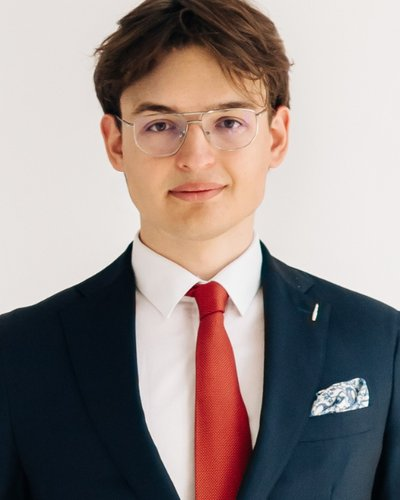
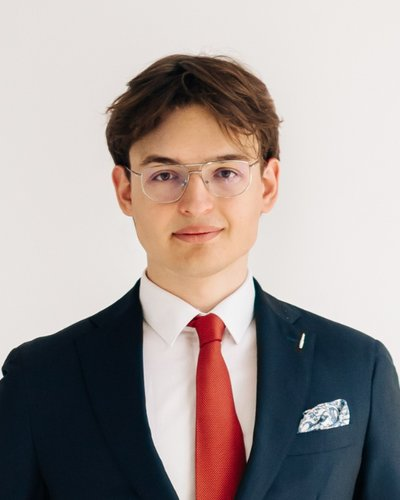
fix(team): give Marek's photo the same headroom as the rest

diff --git a/en.html b/en.html
@@ -182,7 +182,7 @@
     <a class="person" href="https://www.linkedin.com/in/piotrnobis/" target="_blank" rel="noopener" aria-label="Piotr Nobis Partnerships (LinkedIn)"><div class="uni"><img width="408" height="212" src="assets/logos/tum.svg" alt="Technical University of Munich" loading="lazy" decoding="async"></div><div class="ph"><img width="400" height="500" src="assets/img/team/piotr-nobis.jpg" alt="Piotr Nobis" loading="lazy" decoding="async"></div><h3>Piotr Nobis</h3><p class="mono">Partnerships</p></a>
     <a class="person" href="https://www.linkedin.com/in/alicjadorobis/" target="_blank" rel="noopener" aria-label="Alicja Dorobis Program (LinkedIn)"><div class="uni"><img width="230" height="46" src="assets/logos/uva.svg" alt="University of Amsterdam" loading="lazy" decoding="async"></div><div class="ph"><img width="400" height="400" src="assets/img/team/alicja-dorobis.jpg" alt="Alicja Dorobis" loading="lazy" decoding="async"></div><h3>Alicja Dorobis</h3><p class="mono">Program</p></a>
     <a class="person" href="https://www.linkedin.com/in/jakubpartyka/" target="_blank" rel="noopener" aria-label="Jakub Partyka Program (LinkedIn)"><div class="uni"><img width="249" height="99" src="assets/logos/tudelft-card.png" alt="TU Delft" loading="lazy" decoding="async"></div><div class="ph flap" role="img" aria-label="Jakub Partyka"><span>J</span><span>P</span></div><h3>Jakub Partyka</h3><p class="mono">Program</p></a>
-    <a class="person" href="https://www.linkedin.com/in/marek-swiatek/" target="_blank" rel="noopener" aria-label="Marek Świątek Founder GPSS (LinkedIn)"><div class="uni"><img width="800" height="220" src="assets/logos/imperial.svg" alt="Imperial College London" loading="lazy" decoding="async"></div><div class="ph"><img width="400" height="500" src="assets/img/team/marek-swiatek.jpg" alt="Marek Świątek" loading="lazy" decoding="async"></div><h3>Marek Świątek</h3><p class="mono">Founder GPSS</p></a>
+    <a class="person" href="https://www.linkedin.com/in/marek-swiatek/" target="_blank" rel="noopener" aria-label="Marek Świątek Founder GPSS (LinkedIn)"><div class="uni"><img width="800" height="220" src="assets/logos/imperial.svg" alt="Imperial College London" loading="lazy" decoding="async"></div><div class="ph"><img width="400" height="500" src="assets/img/team/marek-swiatek.jpg?v=2" alt="Marek Świątek" loading="lazy" decoding="async"></div><h3>Marek Świątek</h3><p class="mono">Founder GPSS</p></a>
   </div>
 </div></section>
 

diff --git a/index.html b/index.html
@@ -182,7 +182,7 @@
     <a class="person" href="https://www.linkedin.com/in/piotrnobis/" target="_blank" rel="noopener" aria-label="Piotr Nobis Partnerships (LinkedIn)"><div class="uni"><img width="408" height="212" src="assets/logos/tum.svg" alt="Technical University of Munich" loading="lazy" decoding="async"></div><div class="ph"><img width="400" height="500" src="assets/img/team/piotr-nobis.jpg" alt="Piotr Nobis" loading="lazy" decoding="async"></div><h3>Piotr Nobis</h3><p class="mono">Partnerships</p></a>
     <a class="person" href="https://www.linkedin.com/in/alicjadorobis/" target="_blank" rel="noopener" aria-label="Alicja Dorobis Program (LinkedIn)"><div class="uni"><img width="230" height="46" src="assets/logos/uva.svg" alt="University of Amsterdam" loading="lazy" decoding="async"></div><div class="ph"><img width="400" height="400" src="assets/img/team/alicja-dorobis.jpg" alt="Alicja Dorobis" loading="lazy" decoding="async"></div><h3>Alicja Dorobis</h3><p class="mono">Program</p></a>
     <a class="person" href="https://www.linkedin.com/in/jakubpartyka/" target="_blank" rel="noopener" aria-label="Jakub Partyka Program (LinkedIn)"><div class="uni"><img width="249" height="99" src="assets/logos/tudelft-card.png" alt="TU Delft" loading="lazy" decoding="async"></div><div class="ph flap" role="img" aria-label="Jakub Partyka"><span>J</span><span>P</span></div><h3>Jakub Partyka</h3><p class="mono">Program</p></a>
-    <a class="person" href="https://www.linkedin.com/in/marek-swiatek/" target="_blank" rel="noopener" aria-label="Marek Świątek Founder GPSS (LinkedIn)"><div class="uni"><img width="800" height="220" src="assets/logos/imperial.svg" alt="Imperial College London" loading="lazy" decoding="async"></div><div class="ph"><img width="400" height="500" src="assets/img/team/marek-swiatek.jpg" alt="Marek Świątek" loading="lazy" decoding="async"></div><h3>Marek Świątek</h3><p class="mono">Founder GPSS</p></a>
+    <a class="person" href="https://www.linkedin.com/in/marek-swiatek/" target="_blank" rel="noopener" aria-label="Marek Świątek Founder GPSS (LinkedIn)"><div class="uni"><img width="800" height="220" src="assets/logos/imperial.svg" alt="Imperial College London" loading="lazy" decoding="async"></div><div class="ph"><img width="400" height="500" src="assets/img/team/marek-swiatek.jpg?v=2" alt="Marek Świątek" loading="lazy" decoding="async"></div><h3>Marek Świątek</h3><p class="mono">Founder GPSS</p></a>
   </div>
 </div></section>
 
